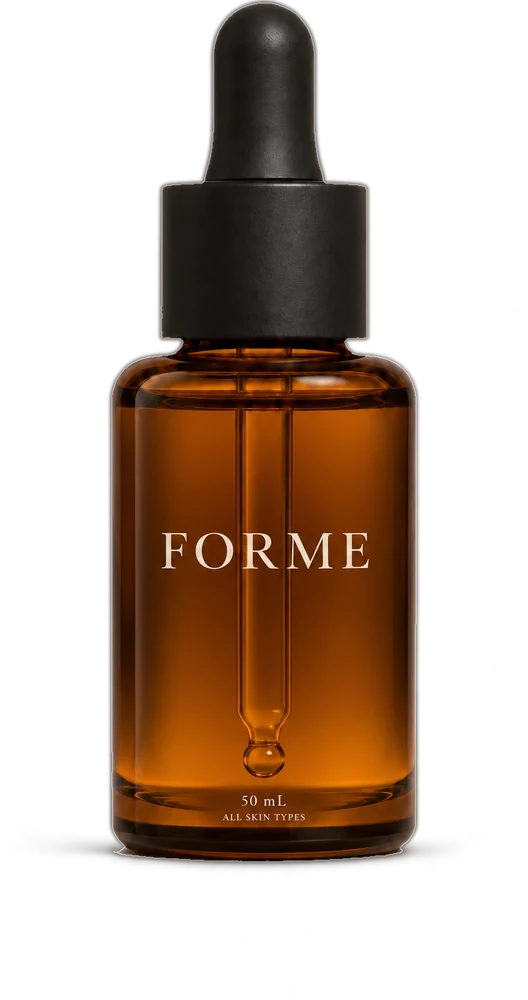
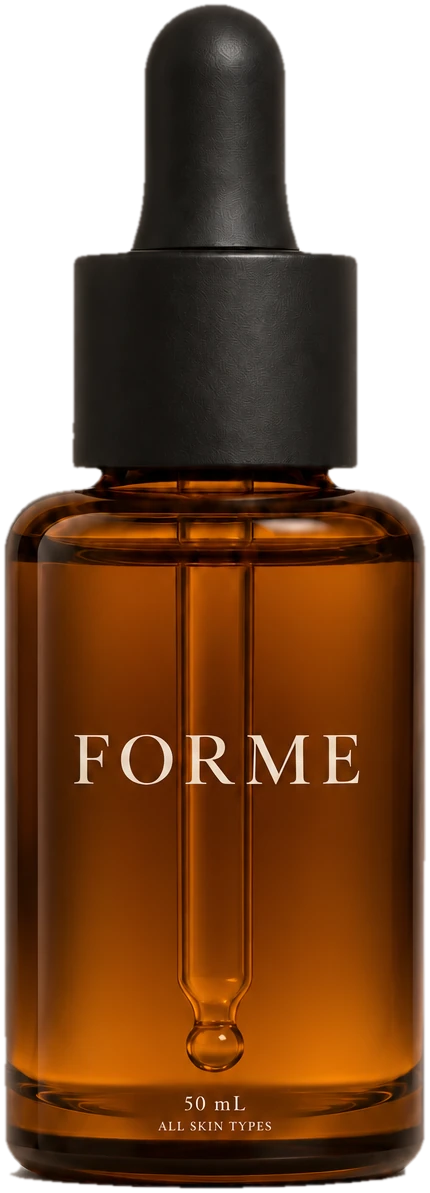
Rework the FORME shop card cut-outs and layout
- Recut the bottles and jar with clean edges and no clipped tops
- Centre each product on its card, with a smaller serum and larger elixir
- Show the Dawn to Dusk Set side by side with space between products

Claude-Session: https://claude.ai/code/session_014mpj7FuxCNBg9oJHhCkLv3

diff --git a/public/forme/index.html b/public/forme/index.html
@@ -13,7 +13,7 @@
 <link rel="preconnect" href="https://fonts.googleapis.com"><link rel="preconnect" href="https://fonts.gstatic.com" crossorigin>
 <link href="https://fonts.googleapis.com/css2?family=Italiana&family=Jost:wght@300;400;500&family=Cormorant+Garamond:ital,wght@1,400;1,500&display=swap" rel="stylesheet">
 <link rel="stylesheet" href="/store-kit/kit.css?v=20261104a">
-<link rel="stylesheet" href="/forme/brand.css?v=20261104a">
+<link rel="stylesheet" href="/forme/brand.css?v=20261104b">
 </head>
 <body class="fm">
 <a class="skip" href="#main">Skip to content</a>
@@ -64,22 +64,22 @@
     <div class="sec-h"><div><span class="eb lbl">The considered collection</span><h2 class="disp" data-r>Shop FORME</h2></div><div style="display:flex;flex-direction:column;gap:16px;align-items:flex-end"><p data-r>Every formula in one considered size, with a crème refill to keep the ritual going.</p><div class="filters" role="group" aria-label="Filter products"><button class="chip" type="button" data-f="all" aria-pressed="true">All</button><button class="chip" type="button" data-f="serums" aria-pressed="false">Serums</button><button class="chip" type="button" data-f="oils" aria-pressed="false">Oils</button><button class="chip" type="button" data-f="moisturisers" aria-pressed="false">Moisturisers</button><button class="chip" type="button" data-f="sets" aria-pressed="false">Sets</button></div></div></div>
     <div class="grid" id="grid">
         <div class="card fm-card" data-id="radiant-serum" data-cat="serums" data-r data-cursor="View" style="--tone:#6b4636">
-          <div class="ph"><span class="ast" aria-hidden="true">*</span><h3 class="fm-tt" aria-hidden="true">Daylight <i>Serum</i></h3><div class="rings" aria-hidden="true"><span class="ring r0"><span>Vitamin C</span></span><span class="ring r1"><span>Brightening</span></span></div><div class="stack"><img class="cut c0" src="/forme/img/cut-serum.webp?v=3" alt="FORME Daylight Serum in an amber bottle with a black dropper" loading="lazy" decoding="async"></div>
+          <div class="ph"><span class="ast" aria-hidden="true">*</span><h3 class="fm-tt" aria-hidden="true">Daylight <i>Serum</i></h3><div class="rings" aria-hidden="true"><span class="ring r0"><span>Vitamin C</span></span><span class="ring r1"><span>Brightening</span></span></div><div class="stack"><img class="cut c0" src="/forme/img/cut-serum.webp?v=4" alt="FORME Daylight Serum in an amber bottle with a black dropper" loading="lazy" decoding="async"></div>
             <span class="fm-from lbl" aria-hidden="true">Brightening serum</span><button class="open" type="button" aria-label="View Daylight Serum, A$128"></button><button class="qa" type="button" aria-label="Quick add Daylight Serum to bag"><span>Quick add</span><span aria-hidden="true">+</span></button></div>
           <div class="meta"><h3>Daylight Serum</h3><span class="pr">A$128</span><span class="ty">Brightening serum</span></div>
         </div>
         <div class="card fm-card" data-id="restore-elixir" data-cat="oils" data-r data-cursor="View" style="--tone:#8a5a45">
-          <div class="ph"><span class="ast" aria-hidden="true">*</span><h3 class="fm-tt" aria-hidden="true">Nightfall <i>Elixir</i></h3><div class="rings" aria-hidden="true"><span class="ring r0"><span>Squalane</span></span><span class="ring r1"><span>Overnight</span></span></div><div class="stack"><img class="cut c0" src="/forme/img/cut-elixir.webp?v=3" alt="FORME Nightfall Elixir in an amber bottle with a gold collar" loading="lazy" decoding="async"></div>
+          <div class="ph"><span class="ast" aria-hidden="true">*</span><h3 class="fm-tt" aria-hidden="true">Nightfall <i>Elixir</i></h3><div class="rings" aria-hidden="true"><span class="ring r0"><span>Squalane</span></span><span class="ring r1"><span>Overnight</span></span></div><div class="stack"><img class="cut c0" src="/forme/img/cut-elixir.webp?v=4" alt="FORME Nightfall Elixir in an amber bottle with a gold collar" loading="lazy" decoding="async"></div>
             <span class="fm-from lbl" aria-hidden="true">Overnight facial oil</span><button class="open" type="button" aria-label="View Nightfall Elixir, A$72"></button><button class="qa" type="button" aria-label="Quick add Nightfall Elixir to bag"><span>Quick add</span><span aria-hidden="true">+</span></button></div>
           <div class="meta"><h3>Nightfall Elixir</h3><span class="pr">A$72</span><span class="ty">Overnight facial oil</span></div>
         </div>
         <div class="card fm-card" data-id="nourishing-creme" data-cat="moisturisers" data-r data-cursor="View" style="--tone:#a77b62">
-          <div class="ph"><span class="ast" aria-hidden="true">*</span><h3 class="fm-tt" aria-hidden="true">Soft Stone <i>Crème</i></h3><div class="rings" aria-hidden="true"><span class="ring r0"><span>Ceramides</span></span><span class="ring r1"><span>Barrier</span></span></div><div class="stack"><img class="cut c0" src="/forme/img/cut-creme.webp?v=3" alt="FORME Soft Stone Crème in a stone-textured jar" loading="lazy" decoding="async"></div>
+          <div class="ph"><span class="ast" aria-hidden="true">*</span><h3 class="fm-tt" aria-hidden="true">Soft Stone <i>Crème</i></h3><div class="rings" aria-hidden="true"><span class="ring r0"><span>Ceramides</span></span><span class="ring r1"><span>Barrier</span></span></div><div class="stack"><img class="cut c0" src="/forme/img/cut-creme.webp?v=4" alt="FORME Soft Stone Crème in a stone-textured jar" loading="lazy" decoding="async"></div>
             <span class="fm-from lbl" aria-hidden="true">Rich moisturiser</span><button class="open" type="button" aria-label="View Soft Stone Crème, A$84"></button><button class="qa" type="button" aria-label="Quick add Soft Stone Crème to bag"><span>Quick add</span><span aria-hidden="true">+</span></button></div>
           <div class="meta"><h3>Soft Stone Crème</h3><span class="pr">A$84</span><span class="ty">Rich moisturiser</span></div>
         </div>
         <div class="card fm-card" data-id="daily-ritual" data-cat="sets" data-r data-cursor="View" style="--tone:#4a2e24">
-          <div class="ph"><span class="ast" aria-hidden="true">*</span><h3 class="fm-tt" aria-hidden="true">Dawn to <i>Dusk</i></h3><div class="rings" aria-hidden="true"><span class="ring r0"><span>Serum</span></span><span class="ring r1"><span>Elixir</span></span><span class="ring r2"><span>Crème</span></span></div><div class="stack many"><img class="cut c0" src="/forme/img/cut-elixir.webp?v=3" alt="The FORME Dawn to Dusk Set: serum, elixir and crème together" loading="lazy" decoding="async"><img class="cut c1" src="/forme/img/cut-serum.webp?v=3" alt="" loading="lazy" decoding="async"><img class="cut c2" src="/forme/img/cut-creme.webp?v=3" alt="" loading="lazy" decoding="async"></div>
+          <div class="ph"><span class="ast" aria-hidden="true">*</span><h3 class="fm-tt" aria-hidden="true">Dawn to <i>Dusk</i></h3><div class="rings" aria-hidden="true"><span class="ring r0"><span>Serum</span></span><span class="ring r1"><span>Elixir</span></span><span class="ring r2"><span>Crème</span></span></div><div class="stack many"><img class="cut c0" src="/forme/img/cut-elixir.webp?v=4" alt="The FORME Dawn to Dusk Set: serum, elixir and crème together" loading="lazy" decoding="async"><img class="cut c1" src="/forme/img/cut-serum.webp?v=4" alt="" loading="lazy" decoding="async"><img class="cut c2" src="/forme/img/cut-creme.webp?v=4" alt="" loading="lazy" decoding="async"></div>
             <span class="fm-from lbl" aria-hidden="true">Serum, elixir &amp; crème</span><button class="open" type="button" aria-label="View The Dawn to Dusk Set, A$249"></button><button class="qa" type="button" aria-label="Quick add The Dawn to Dusk Set to bag"><span>Quick add</span><span aria-hidden="true">+</span></button></div>
           <div class="meta"><h3>The Dawn to Dusk Set</h3><span class="pr">A$249</span><span class="ty">Serum, elixir &amp; crème</span></div>
         </div>
@@ -118,7 +118,7 @@
       <ol class="fm-steps" id="fmSteps"><li><button type="button" class="fm-step" data-step="0"><b>01</b><span><strong>Cleanse</strong>Start on clean, dry skin. Pat, do not rub.</span></button></li><li><button type="button" class="fm-step on" data-step="1"><b>02</b><span><strong>Serum</strong>Three drops of Daylight Serum, pressed in with your palms.</span></button><a class="fm-step-add" href="#" data-add="radiant-serum" aria-label="Add Serum to bag"><span class="t">Add</span> +</a></li><li><button type="button" class="fm-step" data-step="2"><b>03</b><span><strong>Elixir</strong>Evenings: two drops of Nightfall Elixir to seal it in.</span></button><a class="fm-step-add" href="#" data-add="restore-elixir" aria-label="Add Elixir to bag"><span class="t">Add</span> +</a></li><li><button type="button" class="fm-step" data-step="3"><b>04</b><span><strong>Crème</strong>Soft Stone Crème last, morning and night.</span></button><a class="fm-step-add" href="#" data-add="nourishing-creme" aria-label="Add Crème to bag"><span class="t">Add</span> +</a></li></ol>
       <p class="fm-small">Morning: steps 1, 2 and 4. Evening: all four.</p></div>
     <div class="fm-panel-vis" aria-hidden="true"><svg class="fm-orbit" viewBox="0 0 400 400"><circle cx="200" cy="200" r="150"/><circle cx="200" cy="200" r="190"/></svg>
-      <span class="fm-tag t1">Clean actives</span><span class="fm-tag t2">Refillable glass</span><img class="ph" src="/forme/img/botanicals.webp" alt="" data-i="0" loading="lazy"><img class="cut on" src="/forme/img/cut-serum.webp?v=3" alt="" data-i="1" loading="lazy"><img class="cut" src="/forme/img/cut-elixir.webp?v=3" alt="" data-i="2" loading="lazy"><img class="cut" src="/forme/img/cut-creme.webp?v=3" alt="" data-i="3" loading="lazy"></div>
+      <span class="fm-tag t1">Clean actives</span><span class="fm-tag t2">Refillable glass</span><img class="ph" src="/forme/img/botanicals.webp" alt="" data-i="0" loading="lazy"><img class="cut on" src="/forme/img/cut-serum.webp?v=4" alt="" data-i="1" loading="lazy"><img class="cut" src="/forme/img/cut-elixir.webp?v=4" alt="" data-i="2" loading="lazy"><img class="cut" src="/forme/img/cut-creme.webp?v=4" alt="" data-i="3" loading="lazy"></div>
   </div></div>
 </section>
 <section class="sec" id="story">

diff --git a/public/forme/brand.css b/public/forme/brand.css
@@ -57,15 +57,9 @@ html.m.ready .fm-hero-foot>*:nth-child(2){transition-delay:.12s}html.m.ready .fm
 .fm-card:hover .ph .ast{transform:rotate(90deg)}
 .fm-tt{position:absolute;left:20px;top:16px;z-index:2;margin:0;font-family:var(--f-display);font-weight:400;font-size:clamp(26px,2.2vw,36px);line-height:1;max-width:8ch}
 .fm-tt i{font-family:var(--f-ital);font-style:italic;font-size:1.06em}
-.fm-card .stack{position:absolute;inset:18% 10% 7%;display:flex;align-items:flex-end;justify-content:center}
+.fm-card .stack{position:absolute;inset:17% 8% 13%;display:flex;align-items:center;justify-content:center}
 .fm-card .cut{position:relative;max-height:100%;max-width:78%;object-fit:contain;filter:drop-shadow(0 26px 22px rgba(20,8,4,.45));transition:transform var(--t-scene) var(--ease-build)}
 .fm-card:hover .cut.c0{transform:translateY(-10px) rotate(-3deg)}
-.fm-card .stack.many .cut{max-width:44%}
-.fm-card .stack.many .c0{margin-right:-10%;max-height:62%}
-.fm-card .stack.many .c1{z-index:2;max-height:92%}
-.fm-card .stack.many .c2{margin-left:-14%;max-height:46%}
-.fm-card:hover .stack.many .c0{transform:translate(-8px,-6px) rotate(-6deg)}
-.fm-card:hover .stack.many .c2{transform:translate(8px,-4px) rotate(5deg)}
 .fm-card .rings{position:absolute;inset:0;pointer-events:none}
 .fm-card .ring{position:absolute;border:1px solid rgba(247,239,232,.55);border-radius:50%;display:grid;place-items:center;opacity:0;transform:scale(.7);transition:opacity var(--t-reveal) var(--ease-build),transform var(--t-reveal) var(--ease-build)}
 .fm-card .ring span{font-size:11px;letter-spacing:.02em;font-family:var(--f-ital);font-style:italic;font-size:15px}
@@ -145,3 +139,14 @@ html.m.ready .fm-hero-foot>*:nth-child(2){transition-delay:.12s}html.m.ready .fm
   .fm-hero .shade{inset:0 0 auto 0;height:calc(var(--v) + 1px);background:linear-gradient(180deg,rgba(40,20,14,.38),rgba(40,20,14,0) 28%,rgba(42,23,16,0) 74%,#2a1710)}
   .fm-hero-in{justify-content:flex-start;padding-top:calc(var(--v) + 6px)}
 }
+/* shop cards: products centred, with room around them */
+.fm-card .ph .stack .cut{position:relative;inset:auto;flex:none;object-fit:contain}
+.fm-card[data-id="radiant-serum"] .ph .stack .cut{height:88%;width:auto}
+.fm-card[data-id="restore-elixir"] .ph .stack .cut{height:80%;width:auto}
+.fm-card[data-id="nourishing-creme"] .ph .stack .cut{width:76%;height:auto;max-width:none;max-height:none}
+.fm-card .stack.many{align-items:flex-end;gap:4.5%;inset:30% 7% 22%}
+.fm-card .ph .stack.many .cut{height:auto;max-height:none;max-width:none}
+.fm-card .ph .stack.many .c0{width:18.5%}
+.fm-card .ph .stack.many .c1{width:21%}
+.fm-card .ph .stack.many .c2{width:39%}
+.fm-card:hover .stack.many .cut,.fm-card:hover .stack.many .cut.c0{transform:translateY(-6px)}
